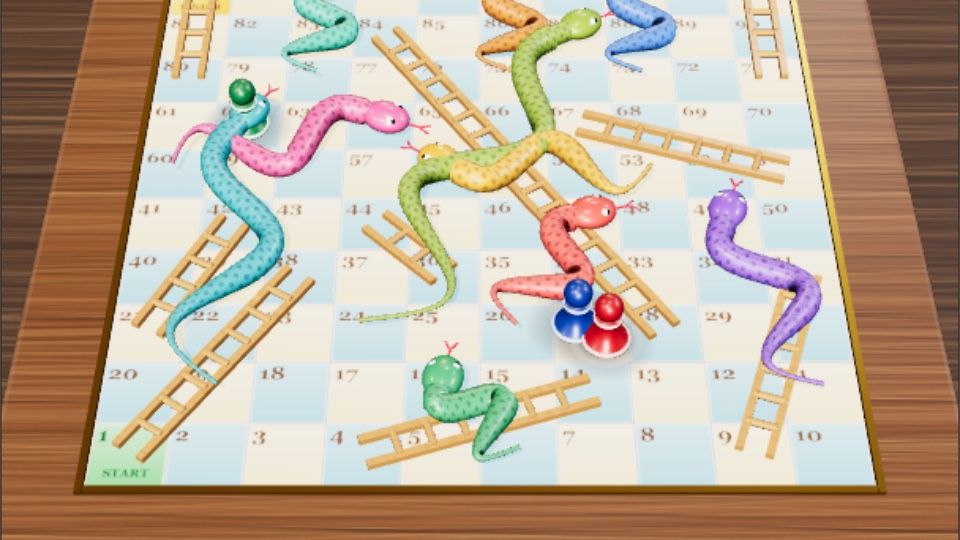
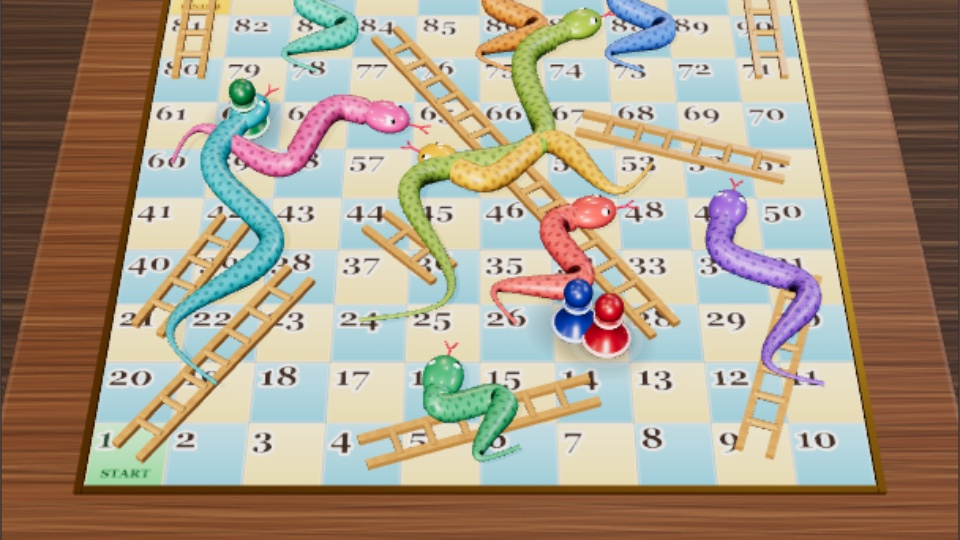
Snakes & Ladders: bolder, clearer board numbers and calmer lighting

diff --git a/public/games/snakes-ladders/scene3d.js b/public/games/snakes-ladders/scene3d.js
@@ -68,7 +68,7 @@ function makeBoardTexture(renderer) {
   const canvas = document.createElement("canvas");
   canvas.width = canvas.height = S;
   const ctx = canvas.getContext("2d");
-  const palette = [["#fff1cf", "#f6dfa6"], ["#a9ddf0", "#7fc4de"], ["#ffd9c7", "#f6b79b"], ["#c9ecc9", "#9bd39b"]];
+  const palette = [["#f1dea6", "#e4c77f"], ["#8ccbe3", "#62aecb"]];
   for (let idx = 0; idx < 100; idx += 1) {
     const n = idx + 1;
     const row = Math.floor(idx / 10);
@@ -82,20 +82,22 @@ function makeBoardTexture(renderer) {
     ctx.fillStyle = g;
     ctx.fillRect(x, y, U, U);
     // soft bevel
-    ctx.strokeStyle = "rgba(255,255,255,0.55)";
+    ctx.strokeStyle = "rgba(255,255,255,0.3)";
     ctx.lineWidth = 5;
     ctx.strokeRect(x + 3, y + 3, U - 6, U - 6);
     ctx.strokeStyle = "rgba(90,60,30,0.28)";
     ctx.lineWidth = 3;
     ctx.strokeRect(x, y, U, U);
-    // number
-    ctx.font = "800 62px Georgia, 'Times New Roman', serif";
+    // number: large, dark, with a light halo so it reads on either colour
+    ctx.font = "900 92px Georgia, 'Times New Roman', serif";
     ctx.textBaseline = "top";
     ctx.textAlign = "left";
-    ctx.fillStyle = "rgba(255,255,255,0.75)";
-    ctx.fillText(String(n), x + 15, y + 13);
-    ctx.fillStyle = "#6a4426";
-    ctx.fillText(String(n), x + 13, y + 11);
+    ctx.lineJoin = "round";
+    ctx.lineWidth = 14;
+    ctx.strokeStyle = "rgba(255,255,255,0.92)";
+    ctx.strokeText(String(n), x + 14, y + 8);
+    ctx.fillStyle = "#2e1a0a";
+    ctx.fillText(String(n), x + 14, y + 8);
   }
   // START and FINISH
   const startX = 0;
@@ -105,10 +107,13 @@ function makeBoardTexture(renderer) {
   sg.addColorStop(1, "#4fbf70");
   ctx.fillStyle = sg;
   ctx.fillRect(startX + 4, startY + 4, U - 8, U - 8);
-  ctx.fillStyle = "#1f5a33";
-  ctx.font = "800 62px Georgia, serif";
-  ctx.fillText("1", startX + 13, startY + 11);
-  ctx.font = "800 34px Georgia, serif";
+  ctx.fillStyle = "#123d22";
+  ctx.font = "900 92px Georgia, serif";
+  ctx.lineWidth = 14;
+  ctx.strokeStyle = "rgba(255,255,255,0.92)";
+  ctx.strokeText("1", startX + 14, startY + 8);
+  ctx.fillText("1", startX + 14, startY + 8);
+  ctx.font = "900 36px Georgia, serif";
   ctx.textAlign = "center";
   ctx.fillText("START", startX + U / 2, startY + U - 60);
   const fx = 0;
@@ -119,9 +124,12 @@ function makeBoardTexture(renderer) {
   ctx.fillStyle = fg;
   ctx.fillRect(fx + 4, fy + 4, U - 8, U - 8);
   ctx.textAlign = "left";
-  ctx.fillStyle = "#6a4004";
-  ctx.font = "800 62px Georgia, serif";
-  ctx.fillText("100", fx + 13, fy + 11);
+  ctx.fillStyle = "#4a2a02";
+  ctx.font = "900 84px Georgia, serif";
+  ctx.lineWidth = 14;
+  ctx.strokeStyle = "rgba(255,255,255,0.92)";
+  ctx.strokeText("100", fx + 14, fy + 10);
+  ctx.fillText("100", fx + 14, fy + 10);
   ctx.textAlign = "center";
   ctx.font = "800 34px Georgia, serif";
   ctx.fillText("FINISH", fx + U / 2, fy + U - 60);
@@ -278,7 +286,7 @@ export function createView3D(container, { LADDERS, SNAKES, onDiceClick }) {
   renderer.setPixelRatio(Math.min(window.devicePixelRatio || 1, 2));
   renderer.outputColorSpace = THREE.SRGBColorSpace;
   renderer.toneMapping = THREE.ACESFilmicToneMapping;
-  renderer.toneMappingExposure = 1.02;
+  renderer.toneMappingExposure = 0.88;
   renderer.shadowMap.enabled = true;
   renderer.shadowMap.type = THREE.PCFSoftShadowMap;
   container.appendChild(renderer.domElement);
@@ -290,7 +298,7 @@ export function createView3D(container, { LADDERS, SNAKES, onDiceClick }) {
   const scene = new THREE.Scene();
   const pmrem = new THREE.PMREMGenerator(renderer);
   scene.environment = pmrem.fromScene(new RoomEnvironment(), 0.04).texture;
-  scene.environmentIntensity = 0.32;
+  scene.environmentIntensity = 0.22;
 
   const camera = new THREE.PerspectiveCamera(38, 1, 0.1, 200);
   const controls = new OrbitControls(camera, renderer.domElement);
@@ -306,8 +314,8 @@ export function createView3D(container, { LADDERS, SNAKES, onDiceClick }) {
   controls.target.copy(TARGET);
 
   // lights
-  scene.add(new THREE.HemisphereLight(0xfff4e0, 0x3a2a20, 0.6));
-  const sun = new THREE.DirectionalLight(0xffefd6, 2.2);
+  scene.add(new THREE.HemisphereLight(0xfff4e0, 0x3a2a20, 0.42));
+  const sun = new THREE.DirectionalLight(0xffefd6, 1.55);
   sun.position.set(-6, 15, 9);
   sun.castShadow = true;
   sun.shadow.mapSize.set(4096, 4096);
@@ -346,7 +354,7 @@ export function createView3D(container, { LADDERS, SNAKES, onDiceClick }) {
   const boardTex = makeBoardTexture(renderer);
   const paint = new THREE.Mesh(
     new THREE.PlaneGeometry(10, 10),
-    new THREE.MeshPhysicalMaterial({ map: boardTex, bumpMap: boardTex, bumpScale: 0.6, roughness: 0.42, clearcoat: 0.25, clearcoatRoughness: 0.25 })
+    new THREE.MeshPhysicalMaterial({ map: boardTex, roughness: 0.78, clearcoat: 0.04, clearcoatRoughness: 0.6 })
   );
   paint.rotation.x = -Math.PI / 2;
   paint.position.y = 0.012;
@@ -749,10 +757,10 @@ export function createView3D(container, { LADDERS, SNAKES, onDiceClick }) {
         p.root.position.y += (bob - p.root.position.y) * Math.min(1, dt * 12);
       }
       p.ring.visible = i === turn && !p.busy;
-      if (p.ring.visible) p.ring.material.opacity = 0.55 + Math.sin(time * 5) * 0.3;
+      if (p.ring.visible) p.ring.material.opacity = 0.32 + Math.sin(time * 5) * 0.16;
       p.blob.position.y = 0.02 - p.root.position.y;
     });
-    diceRing.material.opacity = diceEnabled && !diceRolling ? 0.35 + Math.sin(time * 4) * 0.25 : 0;
+    diceRing.material.opacity = diceEnabled && !diceRolling ? 0.16 + Math.sin(time * 4) * 0.1 : 0;
     for (let i = bursts.length - 1; i >= 0; i -= 1) {
       const b = bursts[i];
       b.life -= dt;
